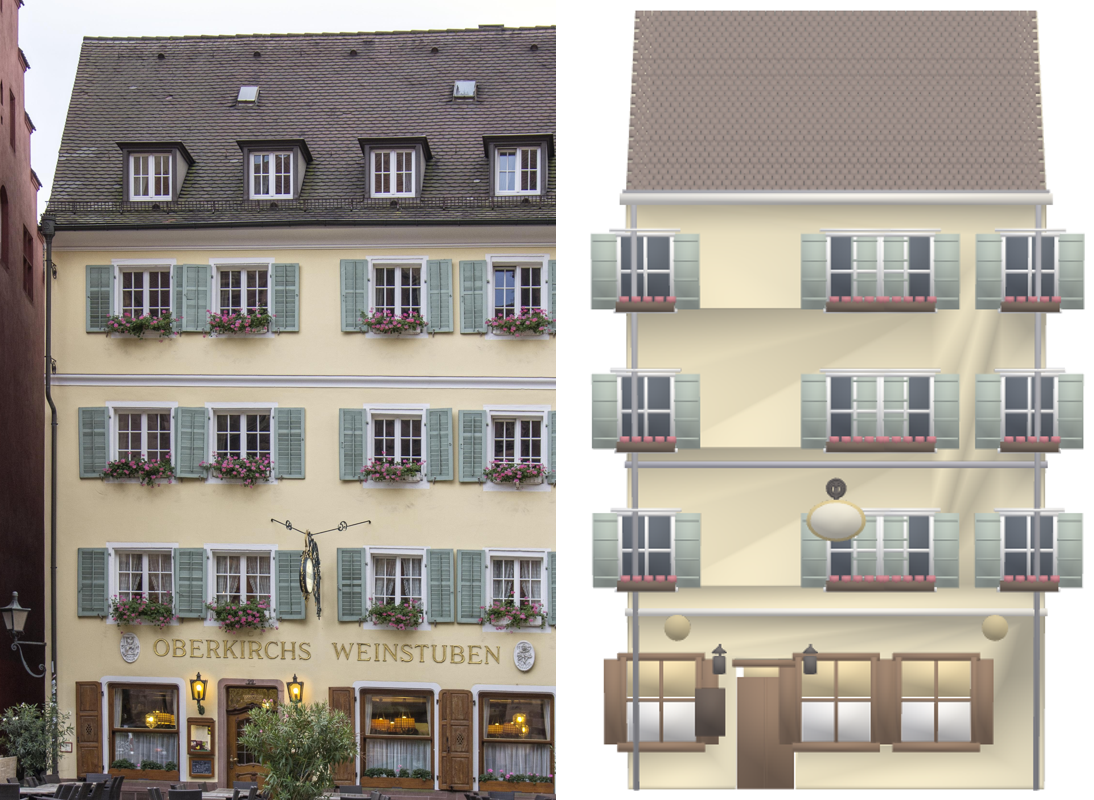
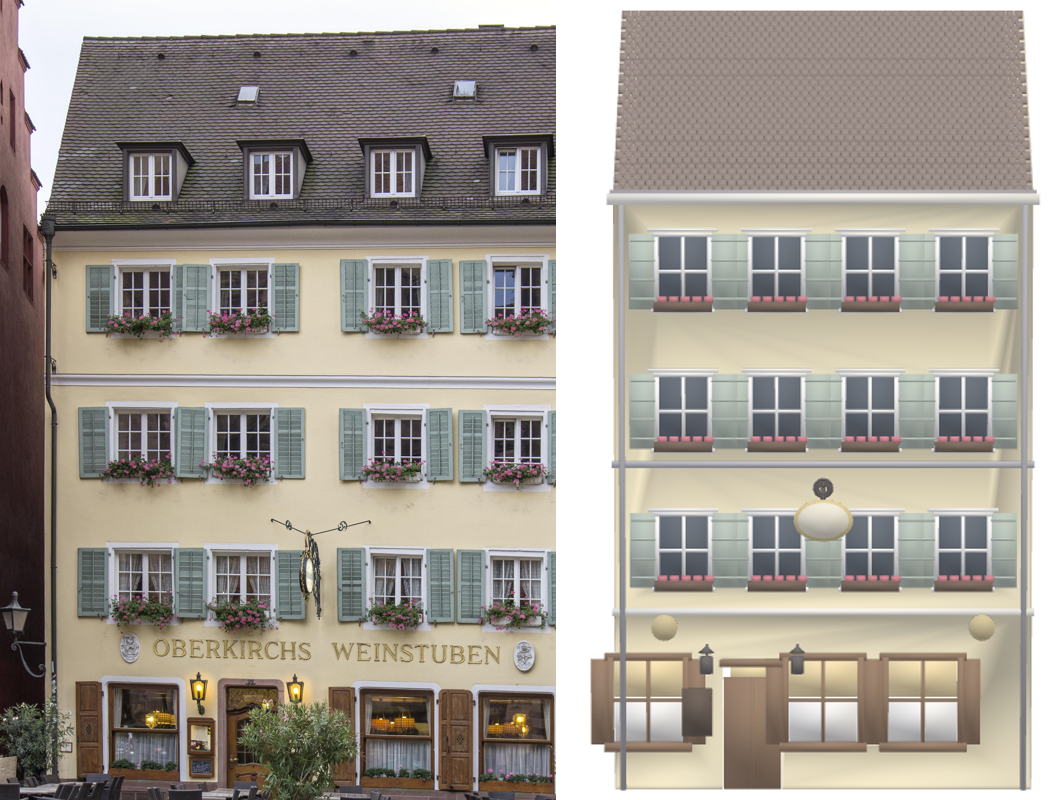
fix(oberkirch): nur obere Fensterachsen gleichmaessig (mittlere Ueberlappung weg)
User: 2 mittlere Fenster je Etage ueberlappen (Mess-Achsen 0.545/0.665 zu dicht).
NUR Achsen -> [0.166,0.389,0.612,0.835] (gleichmaessig 1.85m, eingerueckt 0.85/7.46).
W=8.3/EG/Dachfenster UNVERAENDERT -> nichts anderes gebrochen. Mit Waechter geprueft
(vorher|nachher|heatmap|foto): Ueberlappung weg, EG+Gauben intakt, passt zum Foto.

diff --git a/tools/bauwerk_generator.py b/tools/bauwerk_generator.py
@@ -134,6 +134,8 @@ class Ctx:
             W, eg_top, axes = md["W_m"], md["eg_top_m"], md["axes_x_frac"]
             self.measured = md
             print(f"   [auto-gemessen aus Foto] W={W} m  EG-Oberkante={eg_top} m  Achsen={axes}")
+        if f.get("axes_x_frac"):            # Config-Achsen schlagen Messung (Mess-Achsen oft ungleich/falsch)
+            axes = f["axes_x_frac"]; print(f"   [Fenster-Achsen aus Config] {axes}")
         self.W = float(W); self.eg_top = float(eg_top)
         # --- DACH: First aus GEMESSENER Front-Dachhöhe (perspektiv-echt), Tiefe separat gekappt ---
         self.lod2_depth = float(m["lod2_depth"]); self.lod2_ridge = float(m["lod2_ridge"])
